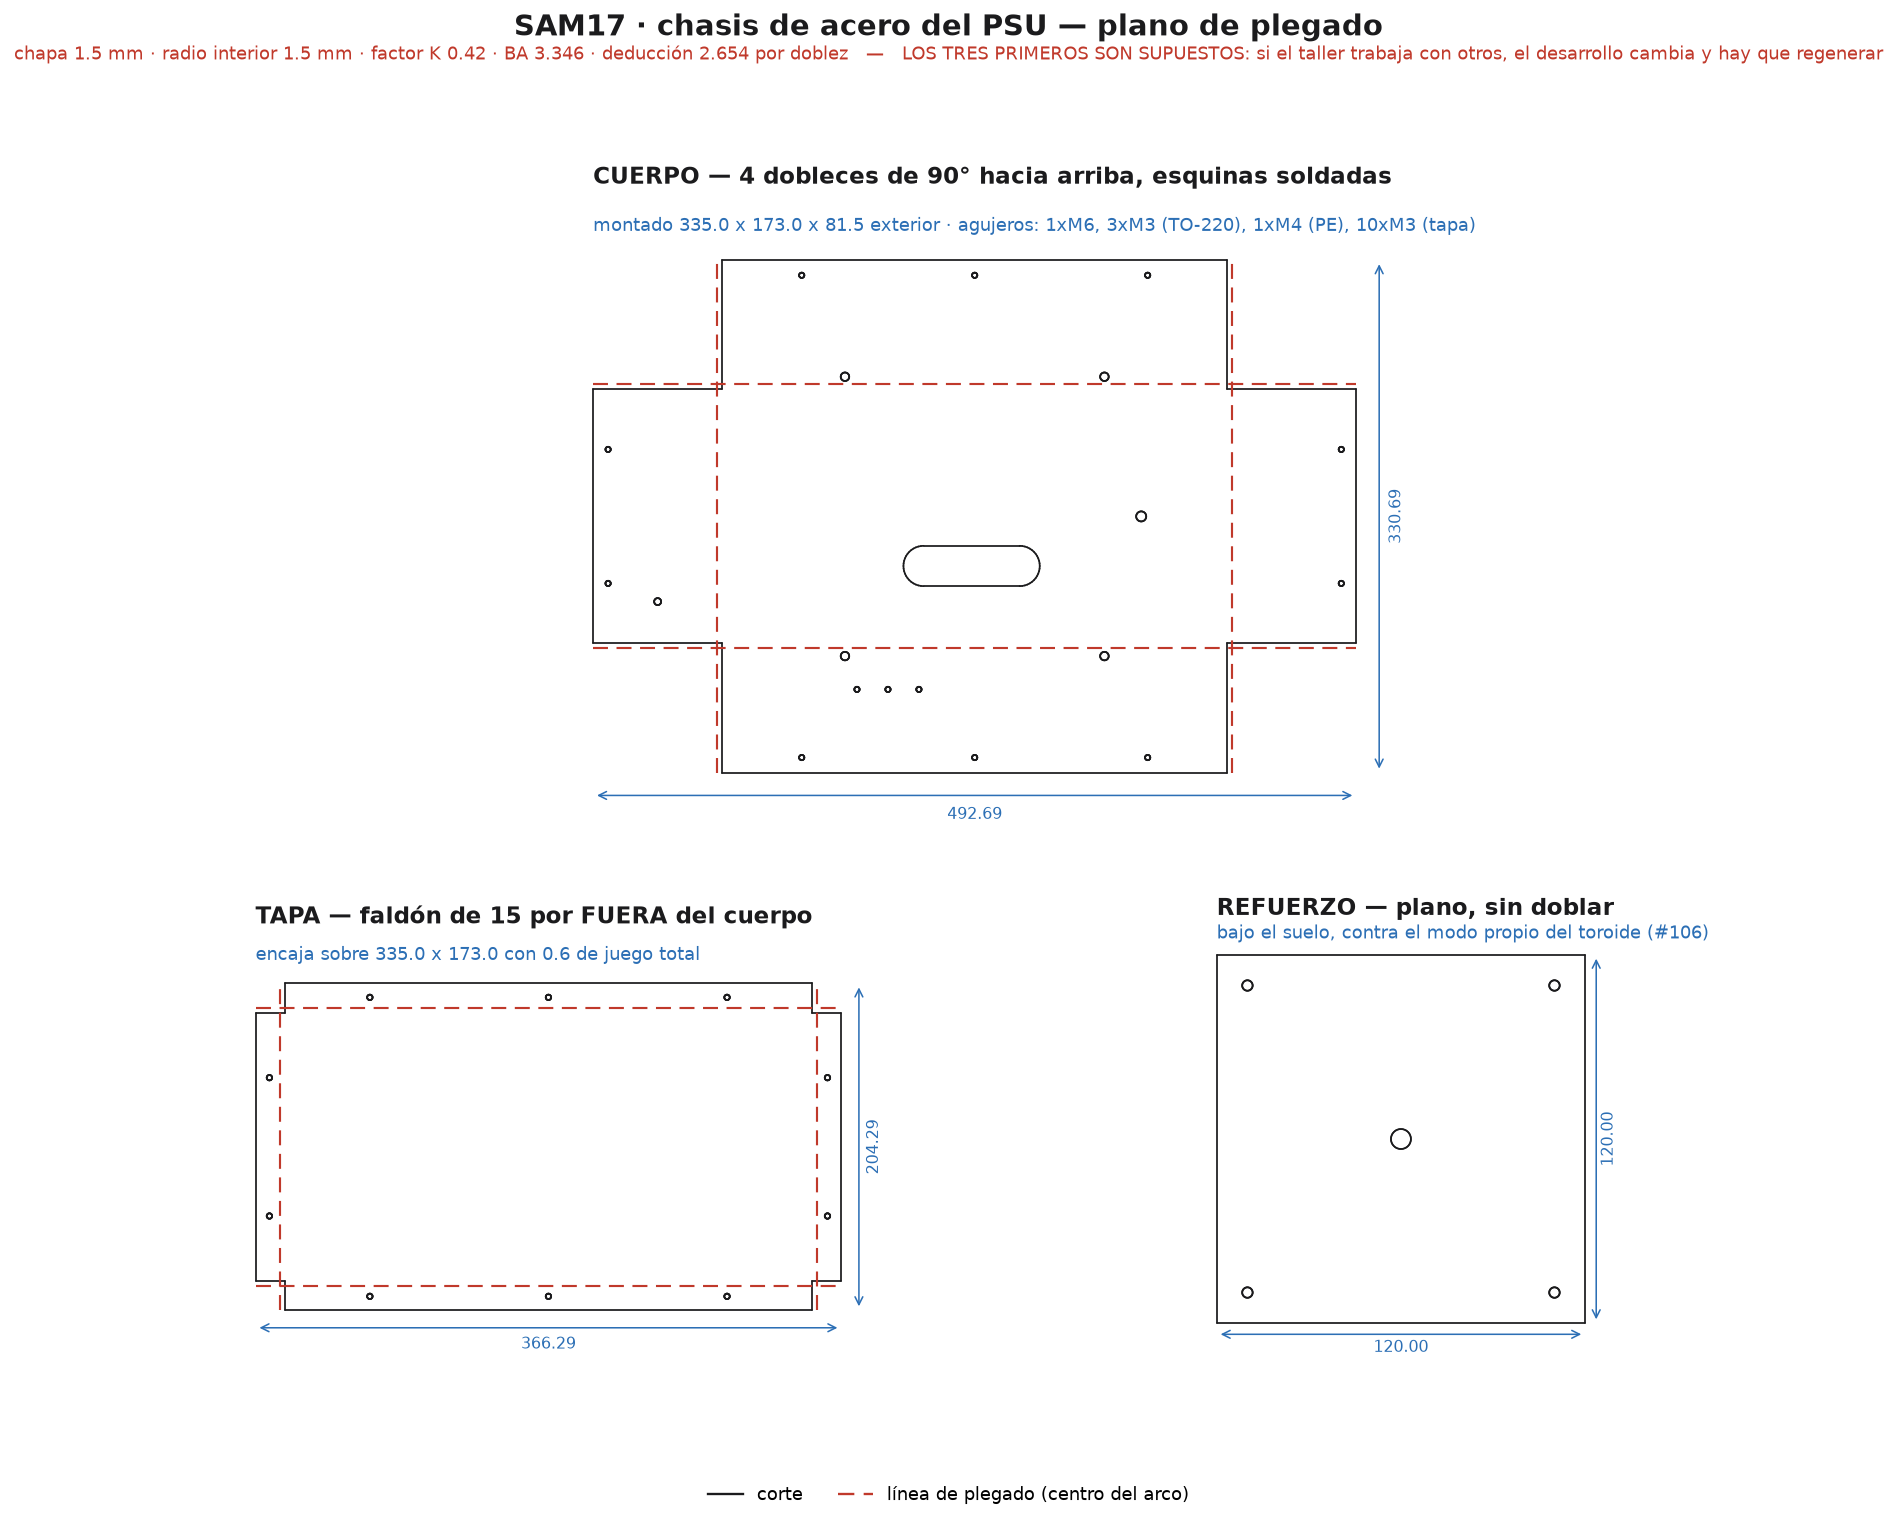
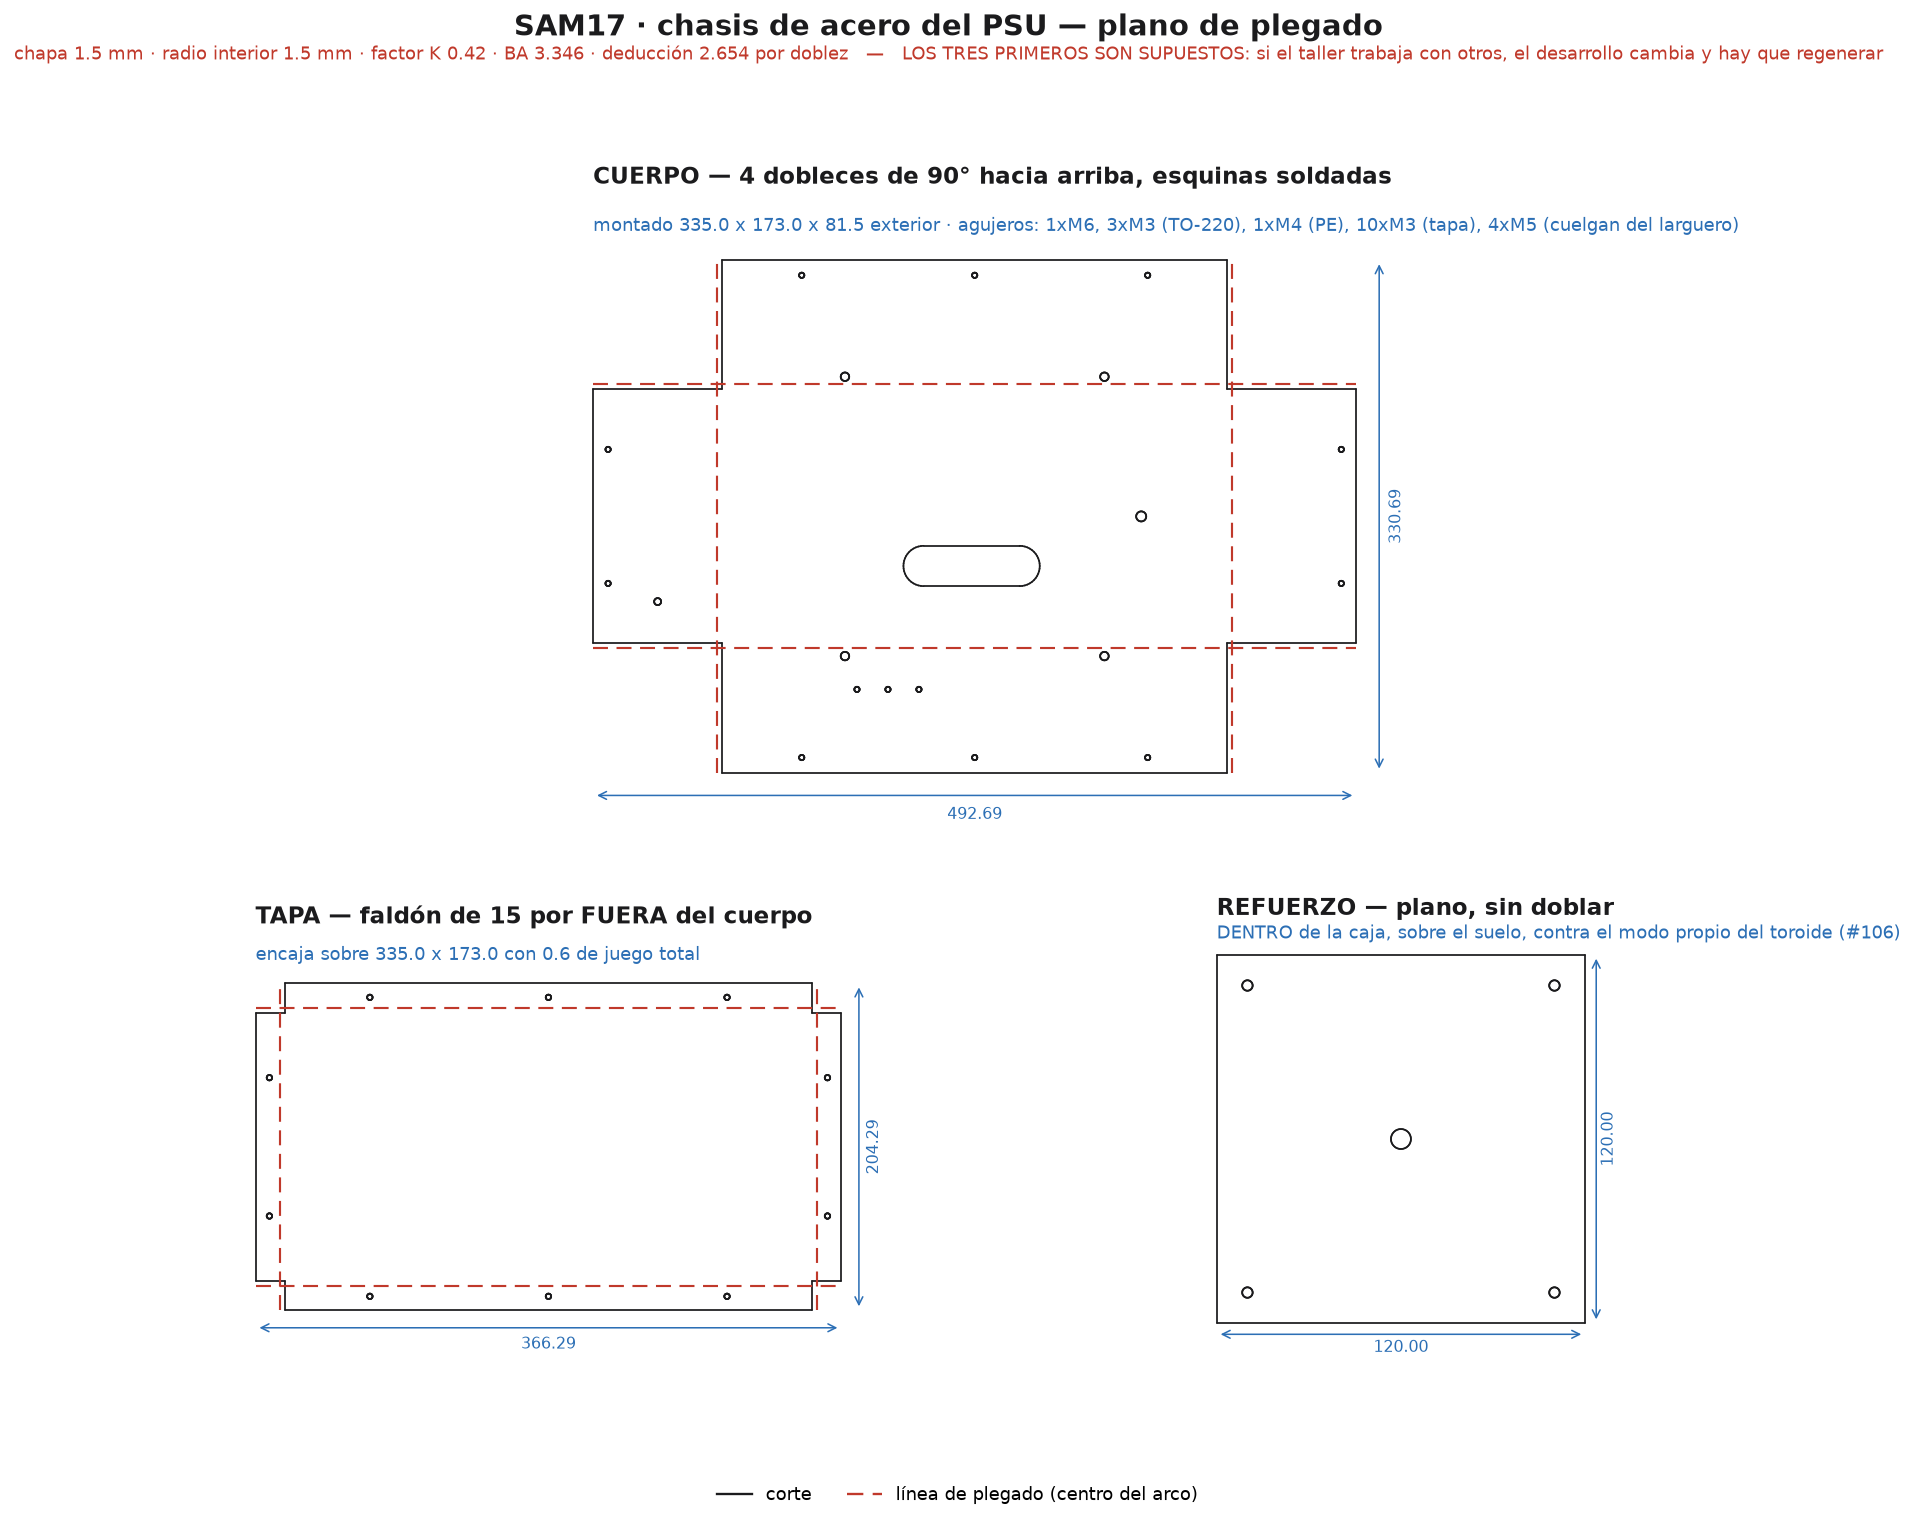
El plano de plegado listaba agujeros que ya no son los que hay
Dos leyendas se quedaron viejas con la T2 y las dos van al taller, que es donde
mienten caro:

- el conteo de agujeros del cuerpo no listaba los 4 M5 nuevos. Ahora sale del
  modelo (chasis_to220_n y chasis_anclajes) en vez de llevar el 3 escrito.
- el refuerzo decia "bajo el suelo". Va DENTRO de la caja desde que el chasis
  cuelga: si se queda fuera, el suelo del chasis no baja lo suficiente y el M5
  del larguero cae dentro del doblez.

Claude-Session: https://claude.ai/code/session_017ZkGz7MtzHSmReg7PvoB9y

diff --git a/case/renders/plano_chasis.py b/case/renders/plano_chasis.py
@@ -114,8 +114,10 @@ def main() -> int:
              ("h", lc), ("h", c["blank_cuerpo_y"] - lc)],
             "CUERPO — 4 dobleces de 90° hacia arriba, esquinas soldadas",
             f"montado {c['ext_x']:.1f} x {c['ext_y']:.1f} x {c['ext_z']:.1f} "
-            f"exterior · agujeros: 1xM6, 3xM3 (TO-220), 1xM4 (PE), "
-            f"{int(2 * (p['chasis_tornillos_largo'] + p['chasis_tornillos_corto']))}xM3 (tapa)")
+            f"exterior · agujeros: 1xM6, {int(p['chasis_to220_n'])}xM3 (TO-220), "
+            f"1xM4 (PE), "
+            f"{int(2 * (p['chasis_tornillos_largo'] + p['chasis_tornillos_corto']))}xM3 "
+            f"(tapa), {int(2 * p['chasis_anclajes'])}xM5 (cuelgan del larguero)")
 
     dibujar(fig.add_subplot(gs[1, 0]), "chasis_tapa_2d",
             [("v", lt), ("v", c["blank_tapa_x"] - lt),
@@ -126,7 +128,8 @@ def main() -> int:
 
     dibujar(fig.add_subplot(gs[1, 1]), "chasis_refuerzo_2d", [],
             "REFUERZO — plano, sin doblar",
-            "bajo el suelo, contra el modo propio del toroide (#106)")
+            "DENTRO de la caja, sobre el suelo, contra el modo propio "
+            "del toroide (#106)")
 
     fig.suptitle("SAM17 · chasis de acero del PSU — plano de plegado",
                  fontsize=15, fontweight="bold", color=TINTA, y=0.975)
